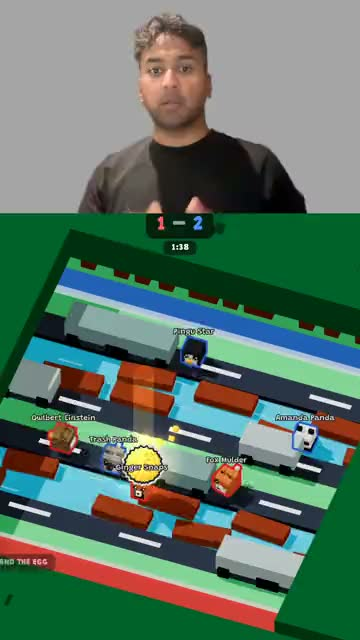
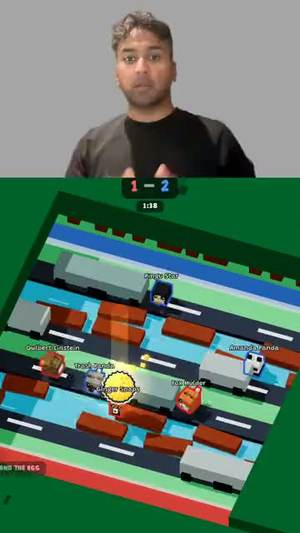
perf: lighter Roadie images, clip loads on scroll

diff --git a/public/roadie/index.html b/public/roadie/index.html
@@ -4,7 +4,7 @@
 <meta charset="utf-8">
 <meta name="viewport" content="width=device-width, initial-scale=1">
 <title>Roadie — The AI Manager for Creatives</title>
-<link rel="icon" href="/roadie/roadie-mark.png">
+<link rel="icon" href="/roadie/roadie-icon.png">
 <link rel="preconnect" href="https://fonts.googleapis.com">
 <link rel="preconnect" href="https://fonts.gstatic.com" crossorigin>
 <link href="https://fonts.googleapis.com/css2?family=Figtree:wght@400;500;600&display=swap" rel="stylesheet">
@@ -235,7 +235,7 @@
 </header>
 
 <main class="hero">
-  <h1>Roadie <img class="face" src="/roadie/roadie-mark.png" alt="the raccoon">, AI that<br>gets the word out <br class="m">for you 📣</h1>
+  <h1>Roadie <img class="face" src="/roadie/roadie-mark.webp" alt="the raccoon">, AI that<br>gets the word out <br class="m">for you 📣</h1>
 
   <p class="pitch">For creatives who know they should post, and don't.</p>
 
@@ -256,14 +256,14 @@
   <div class="more-inner">
     <div class="phone">
       <div class="phone-head">
-        <img src="/roadie/roadie-mark.png" alt="">
+        <img src="/roadie/roadie-mark.webp" alt="">
         <b>Roadie</b>
         Getting your update out
       </div>
       <div class="msg them">Morning. What's on your mind?</div>
-      <div class="msg me clip pair"><img class="vid" src="/roadie/roadie-before.jpg" alt="A raw clip of someone talking to camera"><img class="vid" src="/roadie/roadie-game.jpg" alt="A raw gameplay recording"></div>
+      <div class="msg me clip pair"><img class="vid" loading="lazy" src="/roadie/roadie-before.jpg" alt="A raw clip of someone talking to camera"><img class="vid" loading="lazy" src="/roadie/roadie-game.jpg" alt="A raw gameplay recording"></div>
       <div class="ask"><div class="msg them">Got it. Add more, or tap Post.</div><div class="tap">Post</div></div>
-      <div class="msg them clip"><video class="vid done" src="/roadie/roadie-after.mp4" poster="/roadie/roadie-after.jpg" autoplay muted loop playsinline aria-label="Both clips cut into one subtitled video, ready to post"></video></div>
+      <div class="msg them clip"><video class="vid done" src="/roadie/roadie-after.mp4" poster="/roadie/roadie-after.jpg" preload="none" muted loop playsinline aria-label="Both clips cut into one subtitled video, ready to post"></video></div>
       <div class="msg them">Posted.</div>
     </div>
 
@@ -319,6 +319,12 @@
     more.style.opacity = opacity;
     more.style.pointerEvents = opacity ? '' : 'none';
   }, { passive: true });
+
+  // The clip only downloads and plays once the phone mock scrolls into view.
+  const clip = document.querySelector('video.vid');
+  new IntersectionObserver(function (entries) {
+    entries[0].isIntersecting ? clip.play().catch(function () {}) : clip.pause();
+  }, { threshold: 0.25 }).observe(clip);
 
   // Where sign-ups are sent: a form endpoint that accepts a POST (for example Formspree). Paste the URL here.
   const FORM_ENDPOINT = '';

diff --git a/public/roadie/privacy/index.html b/public/roadie/privacy/index.html
@@ -4,7 +4,7 @@
 <meta charset="utf-8">
 <meta name="viewport" content="width=device-width, initial-scale=1">
 <title>Roadie Privacy Policy — Roadie</title>
-<link rel="icon" href="/roadie/roadie-mark.png">
+<link rel="icon" href="/roadie/roadie-icon.png">
 <link rel="preconnect" href="https://fonts.googleapis.com">
 <link rel="preconnect" href="https://fonts.gstatic.com" crossorigin>
 <link href="https://fonts.googleapis.com/css2?family=Figtree:wght@400;500;600&display=swap" rel="stylesheet">
@@ -39,7 +39,7 @@
 </style>
 </head>
 <body>
-<header class="bar"><a href="/roadie" aria-label="Roadie"><img src="/roadie/roadie-mark.png" alt=""></a></header>
+<header class="bar"><a href="/roadie" aria-label="Roadie"><img src="/roadie/roadie-mark.webp" alt=""></a></header>
 <main>
   <h1>Roadie Privacy Policy</h1>
   <p class="date">Effective October 2, 2026</p>

diff --git a/public/roadie/terms/index.html b/public/roadie/terms/index.html
@@ -4,7 +4,7 @@
 <meta charset="utf-8">
 <meta name="viewport" content="width=device-width, initial-scale=1">
 <title>Roadie Terms — Roadie</title>
-<link rel="icon" href="/roadie/roadie-mark.png">
+<link rel="icon" href="/roadie/roadie-icon.png">
 <link rel="preconnect" href="https://fonts.googleapis.com">
 <link rel="preconnect" href="https://fonts.gstatic.com" crossorigin>
 <link href="https://fonts.googleapis.com/css2?family=Figtree:wght@400;500;600&display=swap" rel="stylesheet">
@@ -39,7 +39,7 @@
 </style>
 </head>
 <body>
-<header class="bar"><a href="/roadie" aria-label="Roadie"><img src="/roadie/roadie-mark.png" alt=""></a></header>
+<header class="bar"><a href="/roadie" aria-label="Roadie"><img src="/roadie/roadie-mark.webp" alt=""></a></header>
 <main>
   <h1>Roadie Terms</h1>
   <p class="date">Effective October 2, 2026</p>
